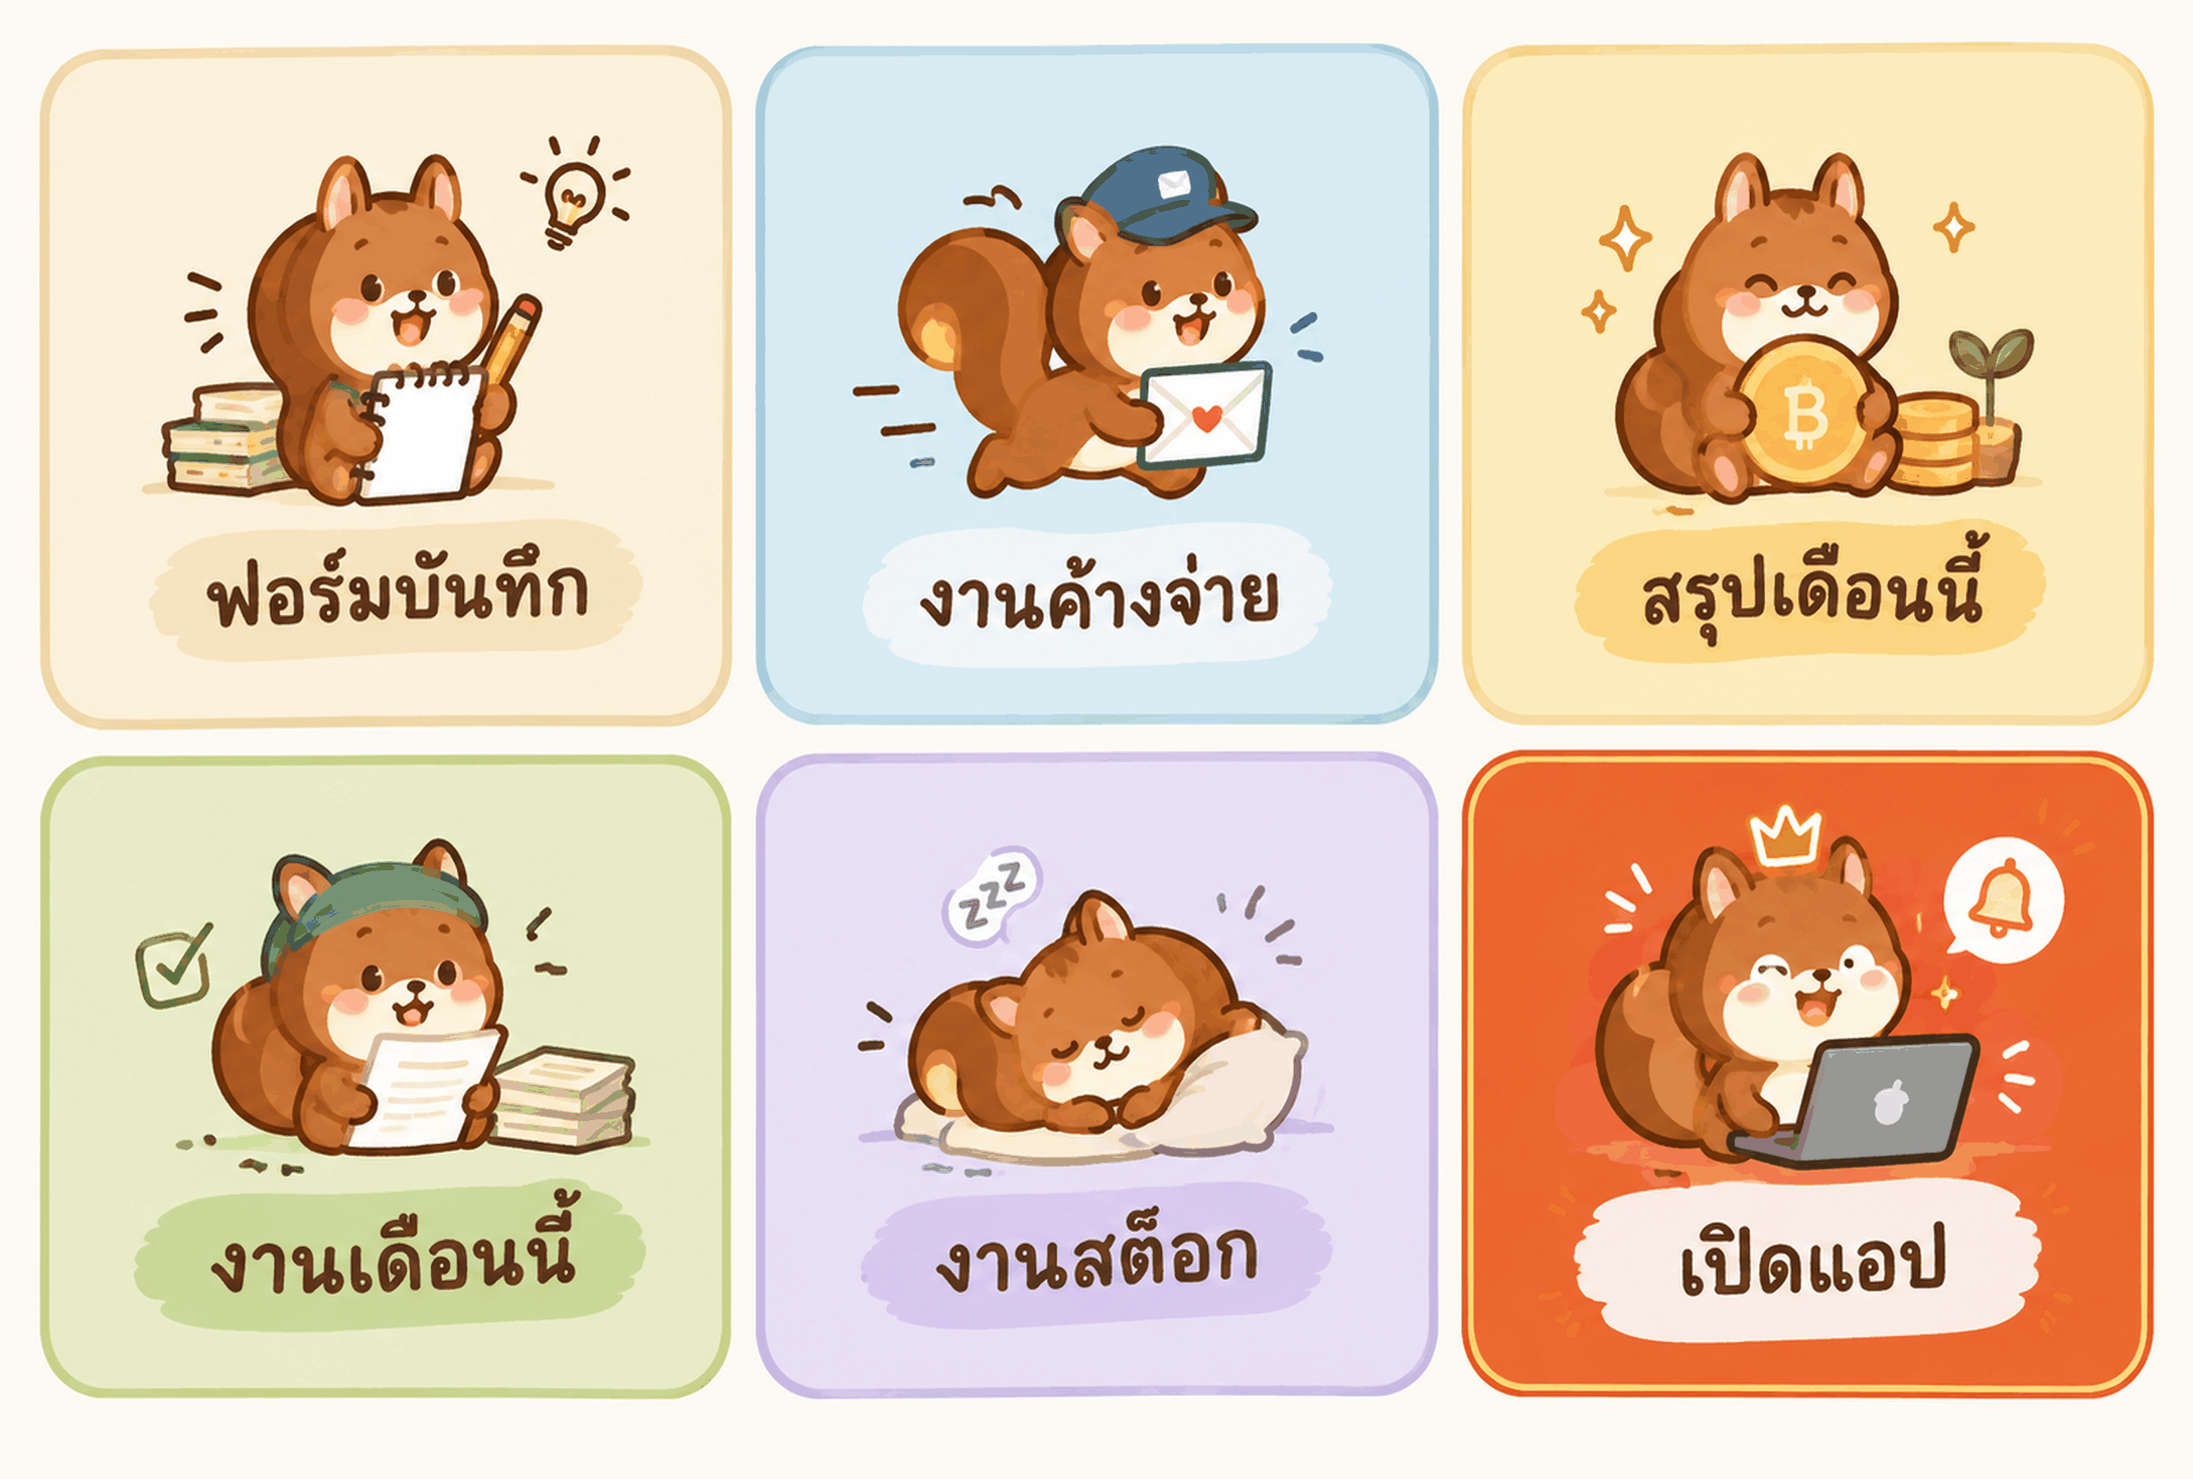
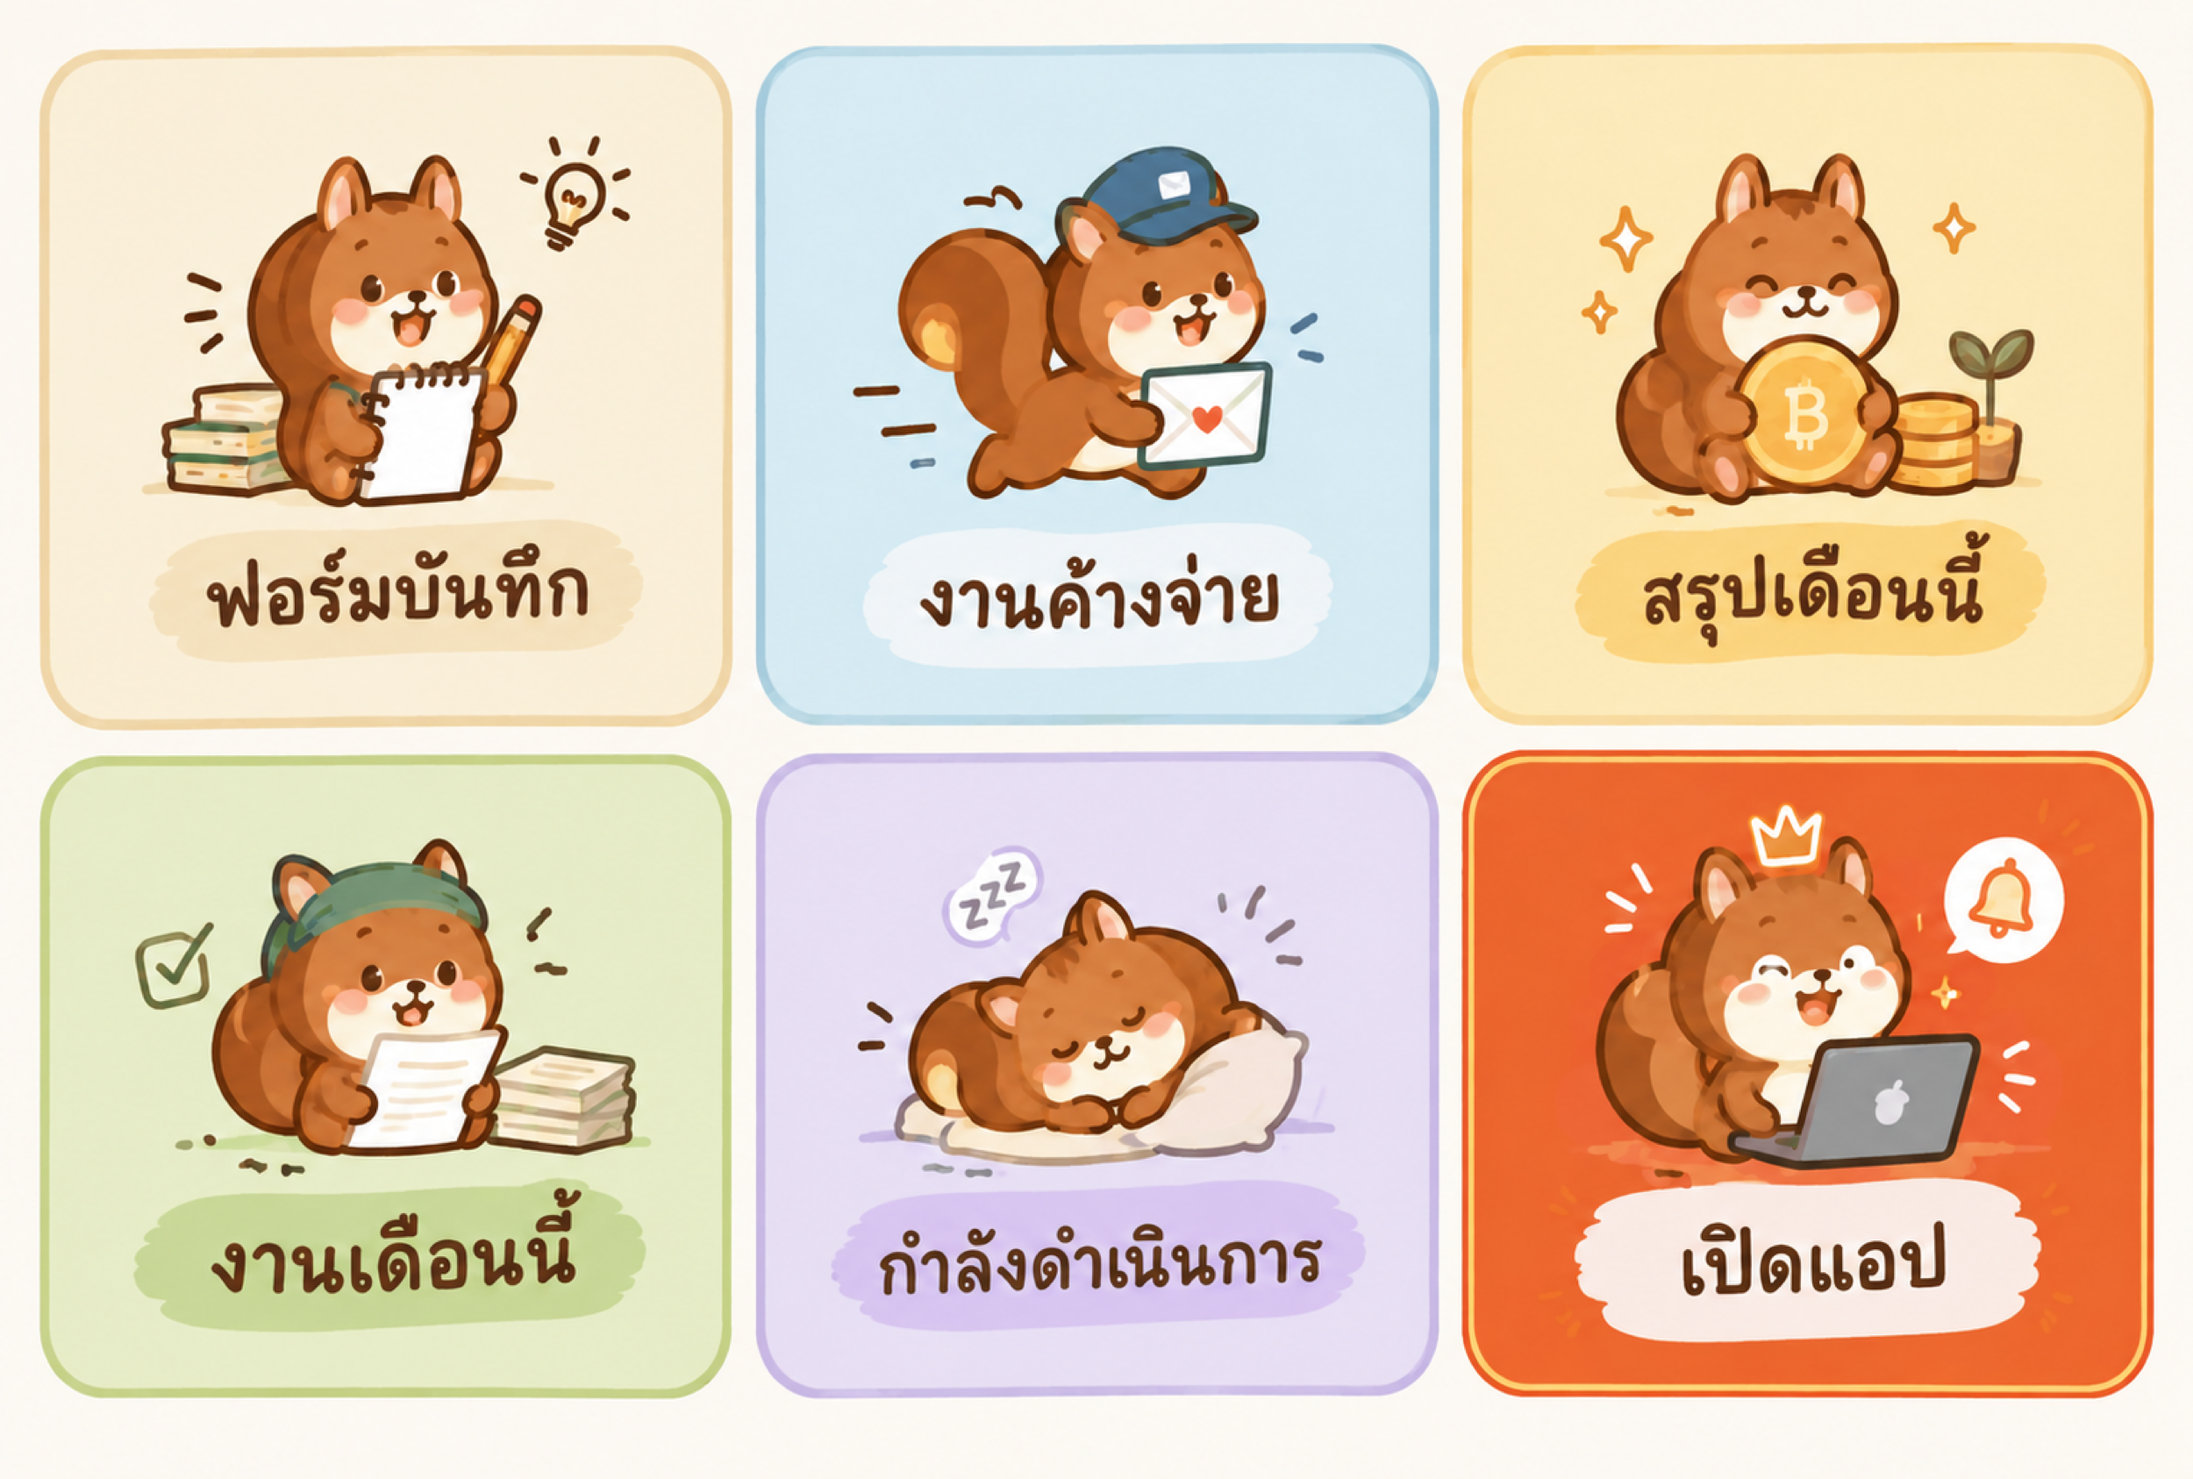
Rename LINE work-in-progress menu

diff --git a/backend/src/services/lineAssistant.ts b/backend/src/services/lineAssistant.ts
@@ -434,7 +434,7 @@ ${recentHistory.map((h) => `${h.role === 'user' ? 'ผู้ใช้' : 'คุ
 - "กระแสเงินสดสุทธิ" ในข้อมูลนี้ไม่ใช่ตัวเลขเดียวกับ "กำไร/กำไรสุทธิ" เป๊ะๆ -- มันคือ (เงินที่รับแล้วจริง) ลบ (รายจ่ายที่บันทึกไว้ในระบบเท่านั้น) และไม่ติดลบต่ำกว่า 0 ถ้าผู้ใช้ถามถึงกำไร ให้ตอบด้วยตัวเลขนี้ได้แต่ต้องบอกด้วยว่านี่คือกระแสเงินสดสุทธิจากรายการที่บันทึกไว้ ไม่ใช่กำไรทางบัญชีที่แม่นยำ 100% เพราะอาจมีรายจ่ายที่ผู้ใช้ยังไม่ได้บันทึกเข้าระบบ (เช่น ค่าจ้างฟรีแลนซ์ช่วยงาน ต้นทุนอื่นๆ) ซึ่งจะไม่ถูกรวมในตัวเลขนี้
 - ถ้าถามว่าตัวเลขใดตัวเลขหนึ่ง "รวมอะไรบ้าง" หรือครบถ้วนหรือไม่ ให้อธิบายตามจริงว่าเป็นผลรวมของอะไร (เช่น รายจ่ายรวม = ค่าใช้จ่ายคงที่ + ค่าใช้จ่ายผันแปรที่บันทึกไว้ในแอป) และบอกตรงๆ ว่าถ้ามีรายจ่ายอะไรที่ยังไม่ได้บันทึกเป็นรายการในแอป ตัวเลขนี้จะไม่รวมส่วนนั้น
 - ถ้าคำถามเกี่ยวกับการเพิ่ม/แก้ไข/ลบข้อมูล ให้แนะนำให้กดปุ่ม "📝 ฟอร์มบันทึก" แทน เพราะที่นี่ตอบได้แค่คำถาม แก้ไขข้อมูลไม่ได้
-- ปุ่มลัดที่มีอยู่จริงในแชทมีแค่นี้เท่านั้น: "📝 ฟอร์มบันทึก", "📋 งานค้างจ่าย", "📊 สรุปเดือนนี้", "📅 งานเดือนนี้", "📦 งานสต็อก" ห้ามอ้างถึงหรือแนะนำปุ่มชื่ออื่นที่ไม่มีอยู่ในรายการนี้เด็ดขาด (เช่นห้ามพูดถึงปุ่ม "สรุปรายรับ" เพราะไม่มีจริง)
+- ปุ่มลัดที่มีอยู่จริงในแชทมีแค่นี้เท่านั้น: "📝 ฟอร์มบันทึก", "📋 งานค้างจ่าย", "📊 สรุปเดือนนี้", "📅 งานเดือนนี้", "📦 กำลังดำเนินการ" ห้ามอ้างถึงหรือแนะนำปุ่มชื่ออื่นที่ไม่มีอยู่ในรายการนี้เด็ดขาด (เช่นห้ามพูดถึงปุ่ม "สรุปรายรับ" เพราะไม่มีจริง)
 - ถ้าคำถามถามถึงอนาคต (เดือนหน้า เดือนถัดไป หรือเดือนที่ระบุชื่อ) ให้เช็คจาก "พยากรณ์รายรับเดือนถัดไป_3เดือน" และ "งานที่ยังไม่จ่ายเงิน" (ที่มีระบุเดือนกำกับไว้) ก่อนเสมอ ห้ามบอกว่าไม่มีข้อมูลทั้งที่จริงมีอยู่ในสองส่วนนี้
 - ถ้าคำถามใช้คำว่า "เร็วๆ นี้"/"ใกล้ครบกำหนด"/"อีกไม่นาน" หรือถามแบบไม่ระบุช่วงเวลาชัดเจนว่างานไหนใกล้ถึงกำหนดชำระ ให้ตอบจาก "งานที่ใกล้ครบกำหนด_ภายใน10วัน_เรียงใกล้สุดก่อน" เท่านั้น (ที่คัดมาแล้วว่าใกล้จริงๆ ภายใน 10 วัน) ห้ามเอารายการทั้งหมดจาก "งานที่ยังไม่จ่ายเงิน" มาตอบเพราะจะเยอะเกินไปจนไม่เห็นภาพว่าอันไหนด่วนจริง ถ้ารายการนี้ว่างเปล่าให้บอกว่าไม่มีงานไหนใกล้ครบกำหนดในเร็วๆ นี้
 
@@ -520,7 +520,7 @@ function getQuickReply(): import('./line.js').LineQuickReply {
     { type: 'action', action: { type: 'message', label: '📋 งานค้างจ่าย', text: 'งานค้างจ่าย' } },
     { type: 'action', action: { type: 'message', label: '📊 สรุปเดือนนี้', text: 'สรุปเดือนนี้' } },
     { type: 'action', action: { type: 'message', label: '📅 งานเดือนนี้', text: 'งานเดือนนี้' } },
-    { type: 'action', action: { type: 'message', label: '📦 งานสต็อก', text: 'งานสต็อก' } }
+    { type: 'action', action: { type: 'message', label: '📦 กำลังดำเนินการ', text: 'กำลังดำเนินการ' } }
   );
   return { items: items.slice(0, 13) };
 }
@@ -625,14 +625,14 @@ function buildThisMonthSummaryMessage(snapshot: DataSnapshot): LineMessage {
 }
 
 function buildWipJobsMessage(snapshot: DataSnapshot): LineMessage {
-  if (snapshot.wip.length === 0) return { type: 'text', text: '📦 ตอนนี้ไม่มีงานในสต็อก (ยังไม่โพสต์) เลยครับ' };
+  if (snapshot.wip.length === 0) return { type: 'text', text: '📦 ตอนนี้ไม่มีงานที่กำลังดำเนินการครับ' };
   const bodyContents: any[] = [
-    buildTypeBadge('package', 'งานในสต็อก', '#4338CA'),
+    buildTypeBadge('package', 'กำลังดำเนินการ', '#4338CA'),
     buildStatementRow('รายการ', `${snapshot.wip.length} งาน`, { size: 'lg', color: '#3D2314' }),
     { type: 'separator', margin: 'lg', color: '#E8DFD3' },
     ...snapshot.wip.map((j) => buildJobRow(j.name, j.client, j.value, '#4338CA')),
   ];
-  return buildReceiptCard(bodyContents, `งานในสต็อก ${snapshot.wip.length} งาน (ยังไม่ส่งงาน)`);
+  return buildReceiptCard(bodyContents, `กำลังดำเนินการ ${snapshot.wip.length} งาน`);
 }
 
 // Flex "receipt" card version of the month's job list -- grouped into unpaid/paid/stock
@@ -674,7 +674,7 @@ function buildThisMonthJobsMessage(snapshot: DataSnapshot): LineMessage {
   if (wip.length > 0) {
     bodyContents.push(
       { type: 'separator', margin: 'lg', color: '#E8DFD3' },
-      buildSectionLabel(`📦 ในสต็อก (${wip.length})`, '#4338CA'),
+      buildSectionLabel(`📦 กำลังดำเนินการ (${wip.length})`, '#4338CA'),
       ...wip.map((j) => buildJobRow(j.name, j.client, j.value, '#4338CA'))
     );
   }
@@ -694,6 +694,7 @@ const QUICK_ACTIONS: Record<string, (snapshot: DataSnapshot) => LineMessage> = {
   งานค้างจ่าย: buildUnpaidJobsMessage,
   สรุปเดือนนี้: buildThisMonthSummaryMessage,
   งานสต็อก: buildWipJobsMessage,
+  กำลังดำเนินการ: buildWipJobsMessage,
   งานเดือนนี้: buildThisMonthJobsMessage,
 };
 
@@ -938,14 +939,14 @@ export function buildJobSavedMessage(job: JobCardData, monthNet?: number): LineM
   const isDone = job.status === 'done';
   const isPartial = job.status === 'partial' || job.status === 'installment';
   const isPaidSome = isDone || isPartial;
-  const statusLabel = isWip ? 'สต็อก (ยังไม่ส่งงาน)' : isDone ? 'จ่ายครบแล้ว' : isPartial ? 'ได้รับมัดจำแล้ว' : 'ยังไม่ได้รับเงิน';
+  const statusLabel = isWip ? 'กำลังดำเนินการ' : isDone ? 'จ่ายครบแล้ว' : isPartial ? 'ได้รับมัดจำแล้ว' : 'ยังไม่ได้รับเงิน';
   // Four distinct moments, four distinct badges: WIP (indigo), posted with nothing received yet
   // (teal "ดีลงาน"), a deposit landed but the job isn't fully paid (amber "ได้รับมัดจำ" -- kept
   // separate from full payment per direct feedback: a deposit shouldn't read as "รับเงินแล้ว" the
   // same way a completed payment does), and fully paid (green "รับเงินแล้ว"). Before this, "done"
   // and "partial" shared the same green badge and headline, so a card for a job that had only
   // gotten a deposit looked identical to one that was fully settled.
-  const headerLabel = isWip ? 'สต็อกใหม่' : isDone ? 'รับเงิน' : isPartial ? 'รับมัดจำ' : 'มูลค่าดีล';
+  const headerLabel = isWip ? 'งานใหม่' : isDone ? 'รับเงิน' : isPartial ? 'รับมัดจำ' : 'มูลค่าดีล';
   const headerColor = isWip ? '#4338CA' : isDone ? '#0E9F6E' : isPartial ? '#B45309' : '#0D9488';
   // job.value is the full contract value, not what's actually landed -- for a partial payment
   // that's just the deposit, so show job.received (falling back to value if a caller doesn't send
@@ -964,7 +965,7 @@ export function buildJobSavedMessage(job: JobCardData, monthNet?: number): LineM
       spacing: 'md',
       contents: [
         isWip
-          ? buildTypeBadge('package', 'เข้าสต็อก', headerColor)
+          ? buildTypeBadge('package', 'กำลังดำเนินการ', headerColor)
           : isDone
             ? buildTypeBadge('coin', 'รับเงินแล้ว', headerColor)
             : isPartial
@@ -982,7 +983,7 @@ export function buildJobSavedMessage(job: JobCardData, monthNet?: number): LineM
     },
   };
 
-  return { type: 'flex', altText: isWip ? `เพิ่มงาน "${job.name}" เข้าสต็อกแล้วครับ` : `บันทึกงาน "${job.name}" สำเร็จแล้วครับ`, contents };
+  return { type: 'flex', altText: isWip ? `เพิ่มงาน "${job.name}" เป็นกำลังดำเนินการแล้วครับ` : `บันทึกงาน "${job.name}" สำเร็จแล้วครับ`, contents };
 }
 
 // Builds a real Expense record the same way ExpenseRecordView.tsx's add-expense form does.
@@ -1081,7 +1082,7 @@ export function buildJobDeletedMessage(job: { name: string; client?: string; val
 // which only reaches this path when the payload looks like a real edit-form save.
 export function buildJobEditedMessage(job: JobCardData, monthNet?: number): LineMessage {
   const isWip = job.isPosted === false;
-  const statusLabel = isWip ? 'สต็อก (ยังไม่ส่งงาน)' : job.status === 'done' ? 'จ่ายครบแล้ว' : job.status === 'installment' ? 'แบ่งชำระเป็นงวด' : job.status === 'partial' ? 'ได้รับมัดจำแล้ว' : 'ยังไม่ได้รับเงิน';
+  const statusLabel = isWip ? 'กำลังดำเนินการ' : job.status === 'done' ? 'จ่ายครบแล้ว' : job.status === 'installment' ? 'แบ่งชำระเป็นงวด' : job.status === 'partial' ? 'ได้รับมัดจำแล้ว' : 'ยังไม่ได้รับเงิน';
   const bodyContents = [
     buildTypeBadge('pencil', 'แก้ไขงาน', '#2563EB'),
     buildStatementRow('แก้ไขงาน', formatCurrency(job.value), { size: 'xl', color: '#2563EB' }),

diff --git a/backend/src/handlers/setup-line-richmenu.ts b/backend/src/handlers/setup-line-richmenu.ts
@@ -18,7 +18,7 @@ const AREAS: { bounds: { x: number; y: number; width: number; height: number }; 
   { bounds: { x: 833, y: 0, width: 834, height: 843 }, action: { type: 'message', label: 'งานค้างจ่าย', text: 'งานค้างจ่าย' } },
   { bounds: { x: 1667, y: 0, width: 833, height: 843 }, action: { type: 'message', label: 'สรุปเดือนนี้', text: 'สรุปเดือนนี้' } },
   { bounds: { x: 0, y: 843, width: 833, height: 843 }, action: { type: 'message', label: 'งานเดือนนี้', text: 'งานเดือนนี้' } },
-  { bounds: { x: 833, y: 843, width: 834, height: 843 }, action: { type: 'message', label: 'งานสต็อก', text: 'งานสต็อก' } },
+  { bounds: { x: 833, y: 843, width: 834, height: 843 }, action: { type: 'message', label: 'กำลังดำเนินการ', text: 'กำลังดำเนินการ' } },
   { bounds: { x: 1667, y: 843, width: 833, height: 843 }, action: { type: 'uri', label: 'เปิดแอป' } }, // uri filled in below once APP_URL is known
 ];
 
